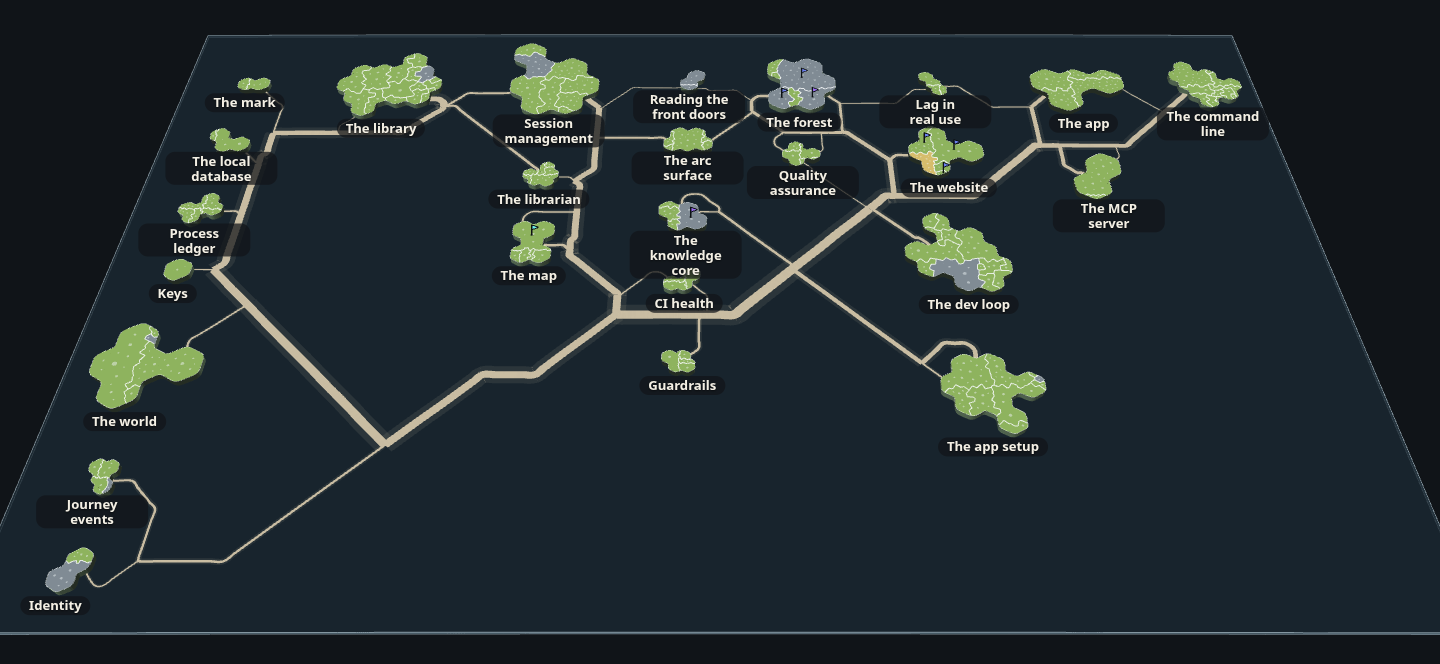
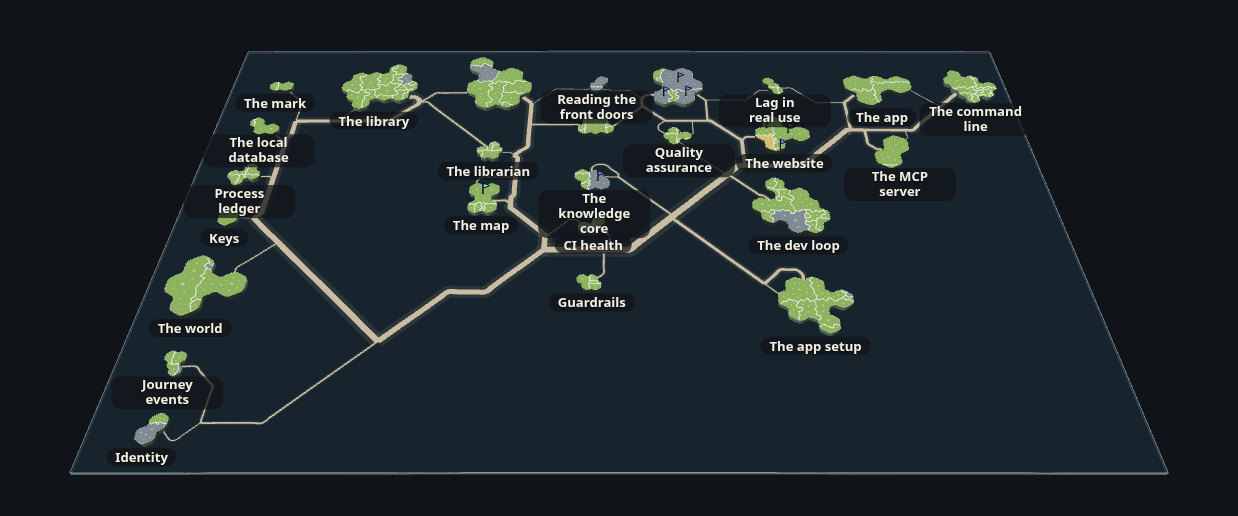
The framed map's stills are captured from the framed map itself
forest-stills.mjs replaces shop-stills.mjs: it waits for the framed map to draw live, hides the
frame's buttons and notes, and cuts the canvas to the band round the sheet's names. public/forest-*.png
are retaken from it, and index.html declares the desktop still's new 1238 x 516 size.

diff --git a/packages/website/src/index.html b/packages/website/src/index.html
@@ -33,7 +33,7 @@
           <div id="website-forest" data-forest-state="still" aria-label="Storytree’s project map">
             <picture class="forest-still storytree-still">
               <source media="(max-width: 600px)" srcset="/forest-phone.png">
-              <img src="/forest-desktop.png" width="1440" height="664" loading="lazy" alt="A saved map of storytree’s project: its story islands, named, and the roads between them on a tilted glass sheet.">
+              <img src="/forest-desktop.png" width="1238" height="516" loading="lazy" alt="A saved map of storytree’s project: its story islands, named, and the roads between them on a tilted glass sheet.">
             </picture>
           </div>
           <p class="forest-unavailable" role="note"><strong>The map can’t draw in this browser: it needs WebGL.</strong> This is a saved picture of it instead.</p>

diff --git a/packages/website/FOREST.md b/packages/website/FOREST.md
@@ -39,28 +39,20 @@ drawn. Missing WebGL, download or initialization failures, a 15-second startup
 timeout, and context loss leave the still in place. No JavaScript is needed for
 the still. The map renders on demand and is turned by dragging it.
 
-Refresh the two stills (`public/forest-*.png`) whenever the JSON or shared renderer changes. They are captured, as the shop's
-are, from the website's own live drawing of free play, switched to storytree's project. From the checkout root, after refreshing
-the snapshot above:
+Refresh the two stills (`public/forest-*.png`) whenever the JSON or shared renderer changes. They are captured from the
+website's own live drawing of the framed map, with the frame's buttons and notes hidden. From the checkout root, after
+refreshing the snapshot above:
 
 ```sh
 pnpm --filter @storytree/website build
-node packages/website/evidence/forest/shop-stills.mjs storytree
-```
-
-The shop's two stills (`public/shop-*.png`, shown in free play on the shop without WebGL) are captured from the website's own
-live drawing of that free play; refresh them when `shop-snapshot.json` or the renderer changes:
-
-```sh
-pnpm --filter @storytree/website build
-node packages/website/evidence/forest/shop-stills.mjs
+node packages/website/evidence/forest/forest-stills.mjs
 ```
 
 This needs Playwright's Chromium installed. The capture serves the built site; it does not
 access the running app or a database. Commit the snapshot, `public/forest-*.png` and renewed
-evidence together. The square stills are central crops of the actual rendered canvas,
-preserving its short-side framing at other viewport sizes. They are not separately drawn
-illustrations. Do not present the saved health as independently verified health.
+evidence together. Each still is the rendered canvas's full width, cut to a band round
+the sheet's names (1440 × 1000 at device scale 1, and 390 × 844 at scale 2). They are not
+separately drawn illustrations. Do not present the saved health as independently verified health.
 
 The still and loading behaviour (contracts 2.1 to 2.3: text and waitlist before the scene's
 code, the live scene replacing the still, a saved picture of each view's own project when

diff --git a/packages/website/evidence/shop-fallback/README.md b/packages/website/evidence/shop-fallback/README.md
@@ -2,13 +2,17 @@
 
 2026-10-11, Mint box, increment_79ffbda05255, website contract 2.2.
 
+**A dated record.** The tour and the shop's stills have since left the page (increment_64f8fcb95d79), and `shop-stills.mjs`
+with them: storytree's stills are now retaken from the framed map by [`../forest/forest-stills.mjs`](../forest/forest-stills.mjs)
+(2026-10-20). The commands below no longer run.
+
 Without WebGL (or when the scene's code fails to load), every view the globe would draw now shows a saved picture of that same
 project, or says plainly why no picture can stand for it:
 
 | View | What the visitor sees without WebGL |
 | --- | --- |
 | A tour step on the shop (the map and knowledge chapters) | A note above the narration, clear of the panels a step opens on the right and above the scrim behind the words: the map can't draw in this browser, this step replays a moment of the shop's recorded build that no single picture shows truthfully, the words play on, and free play shows the finished shop. Narration, timing, How and Why are unchanged. |
-| Free play on the shop | The shop's own still (`public/shop-desktop.png`, `public/shop-phone.png`): the finished shop's eight islands and roads, drawn by the website's live renderer in free play and cropped square from its canvas by [`../forest/shop-stills.mjs`](../forest/shop-stills.mjs). Never storytree's still. |
+| Free play on the shop | The shop's own still (`public/shop-desktop.png`, `public/shop-phone.png`): the finished shop's eight islands and roads, drawn by the website's live renderer in free play and cropped square from its canvas by `shop-stills.mjs`. Never storytree's still. |
 | Free play on storytree | storytree's still, as before, now centred and larger on phones. |
 | The arrival (storytree's growth) | Dark, as before (contract 2.11). |
 

diff --git a/packages/website/evidence/forest/README.md b/packages/website/evidence/forest/README.md
@@ -8,7 +8,7 @@ none of which the site has now. It was removed rather than repaired, because its
 
 | What it did | Where that is done now |
 | --- | --- |
-| Captured storytree's stills, `public/forest-*.png` | `shop-stills.mjs storytree` (its argument arrives with PR #1236), from the website's own live drawing of free play ([FOREST.md](../../FOREST.md)) |
+| Captured storytree's stills, `public/forest-*.png` | `forest-stills.mjs`, from the website's own live drawing of the framed map ([FOREST.md](../../FOREST.md)) |
 | Contracts 2.2 and 2.3: text before the renderer, the still on missing WebGL or a failed scene download | `node packages/website/evidence/capture.mjs <out> --verify-forest` (2.1 to 2.3, at 1440, 1280, 390 and 320 px); all seven checks passed on 2026-10-12 |
 | Doubled text at 320 px | `--verify-enlarged` |
 | The globe's turn buttons at 320 px, doubled text | Nothing: the buttons are gone; the globe is turned by direct manipulation (`tour.mjs`) |

diff --git a/packages/website/evidence/sheet-names/README.md b/packages/website/evidence/sheet-names/README.md
@@ -20,4 +20,5 @@ reason. The run before this change failed 2.22 at every phone view and 2.23 at e
 the right edge, as in `../sheet-tour/sheet/1440-grow.png` and `320-freeplay.png`).
 
 The saved stills in `public/` (`forest-*.png`, `shop-*.png`, shown when WebGL cannot draw) are retaken from the sheet by
-`../forest/shop-stills.mjs`, now cut to the sheet's band instead of a square.
+`shop-stills.mjs`, now cut to the sheet's band instead of a square. (Since 2026-10-20 storytree's are retaken from the framed
+map by [`../forest/forest-stills.mjs`](../forest/forest-stills.mjs), and the shop's have left the page.)
